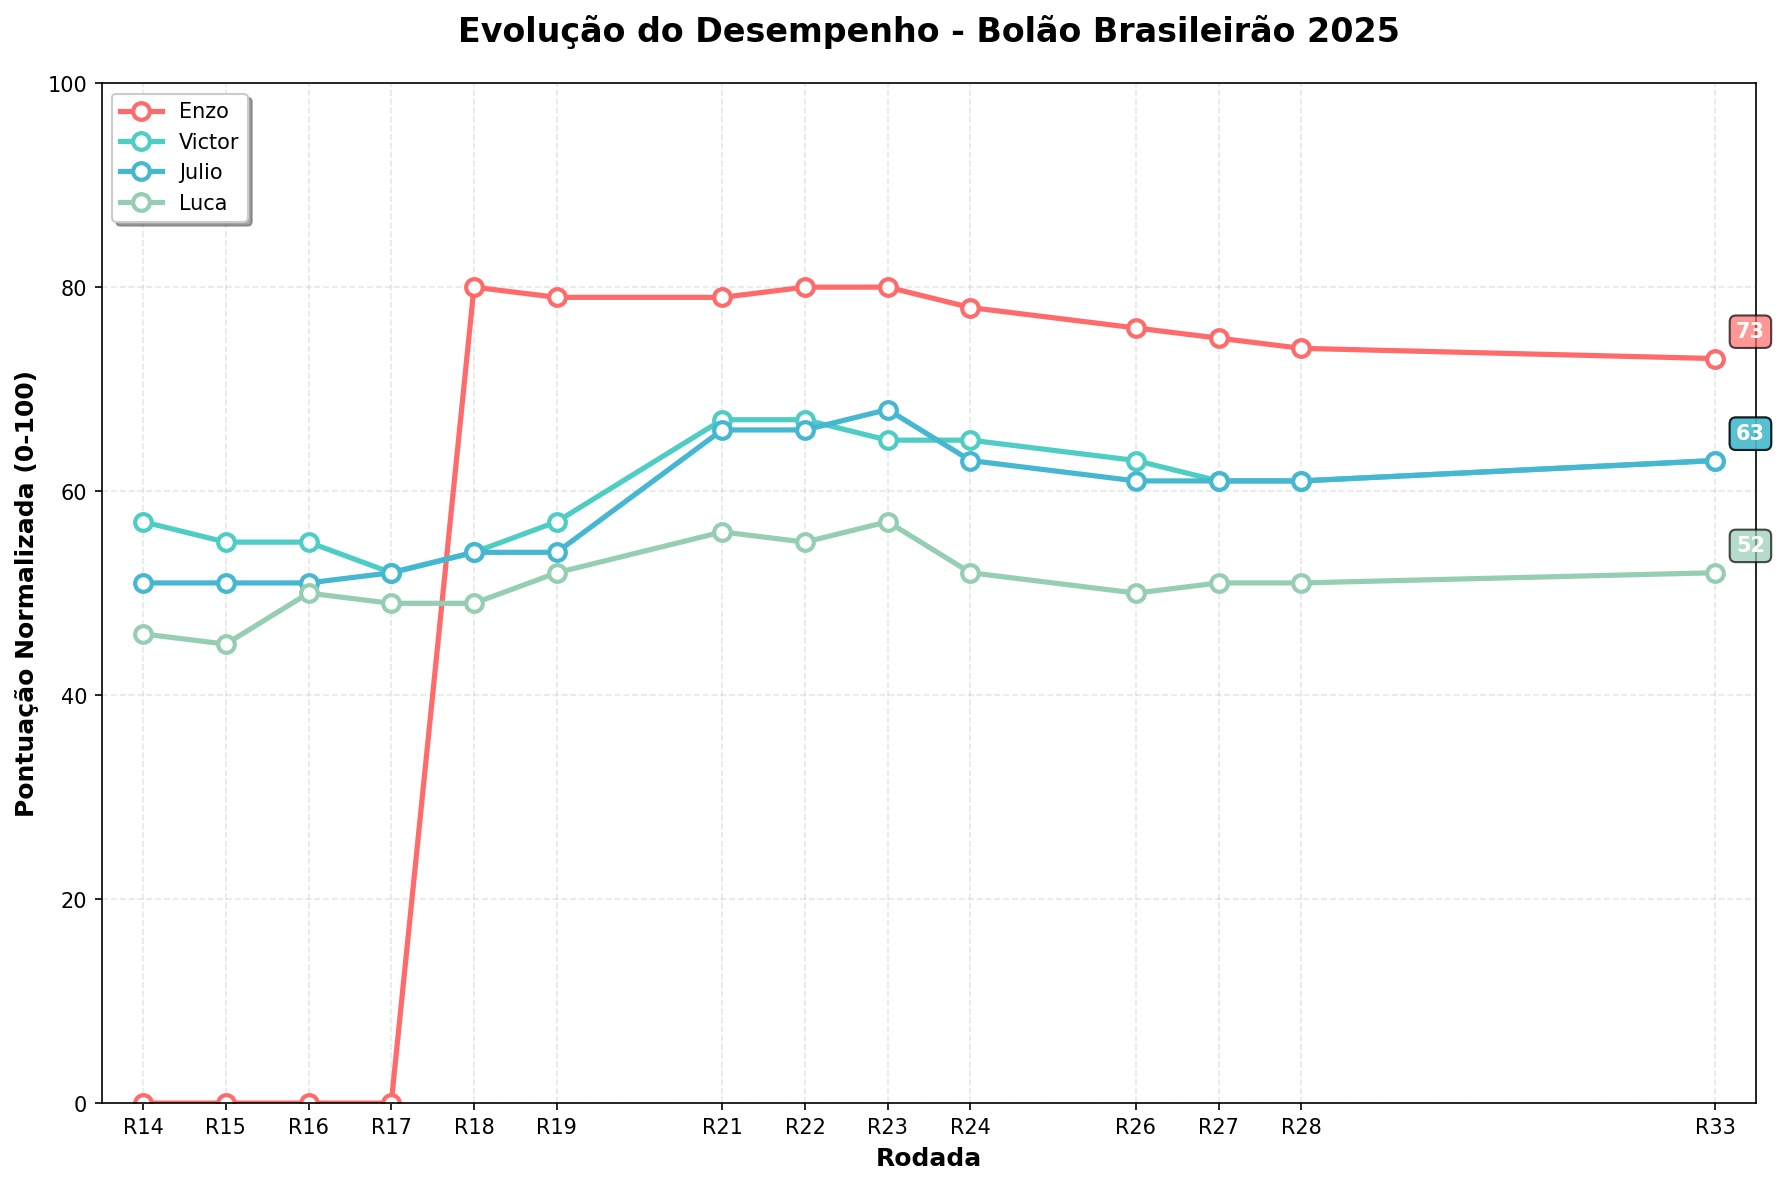
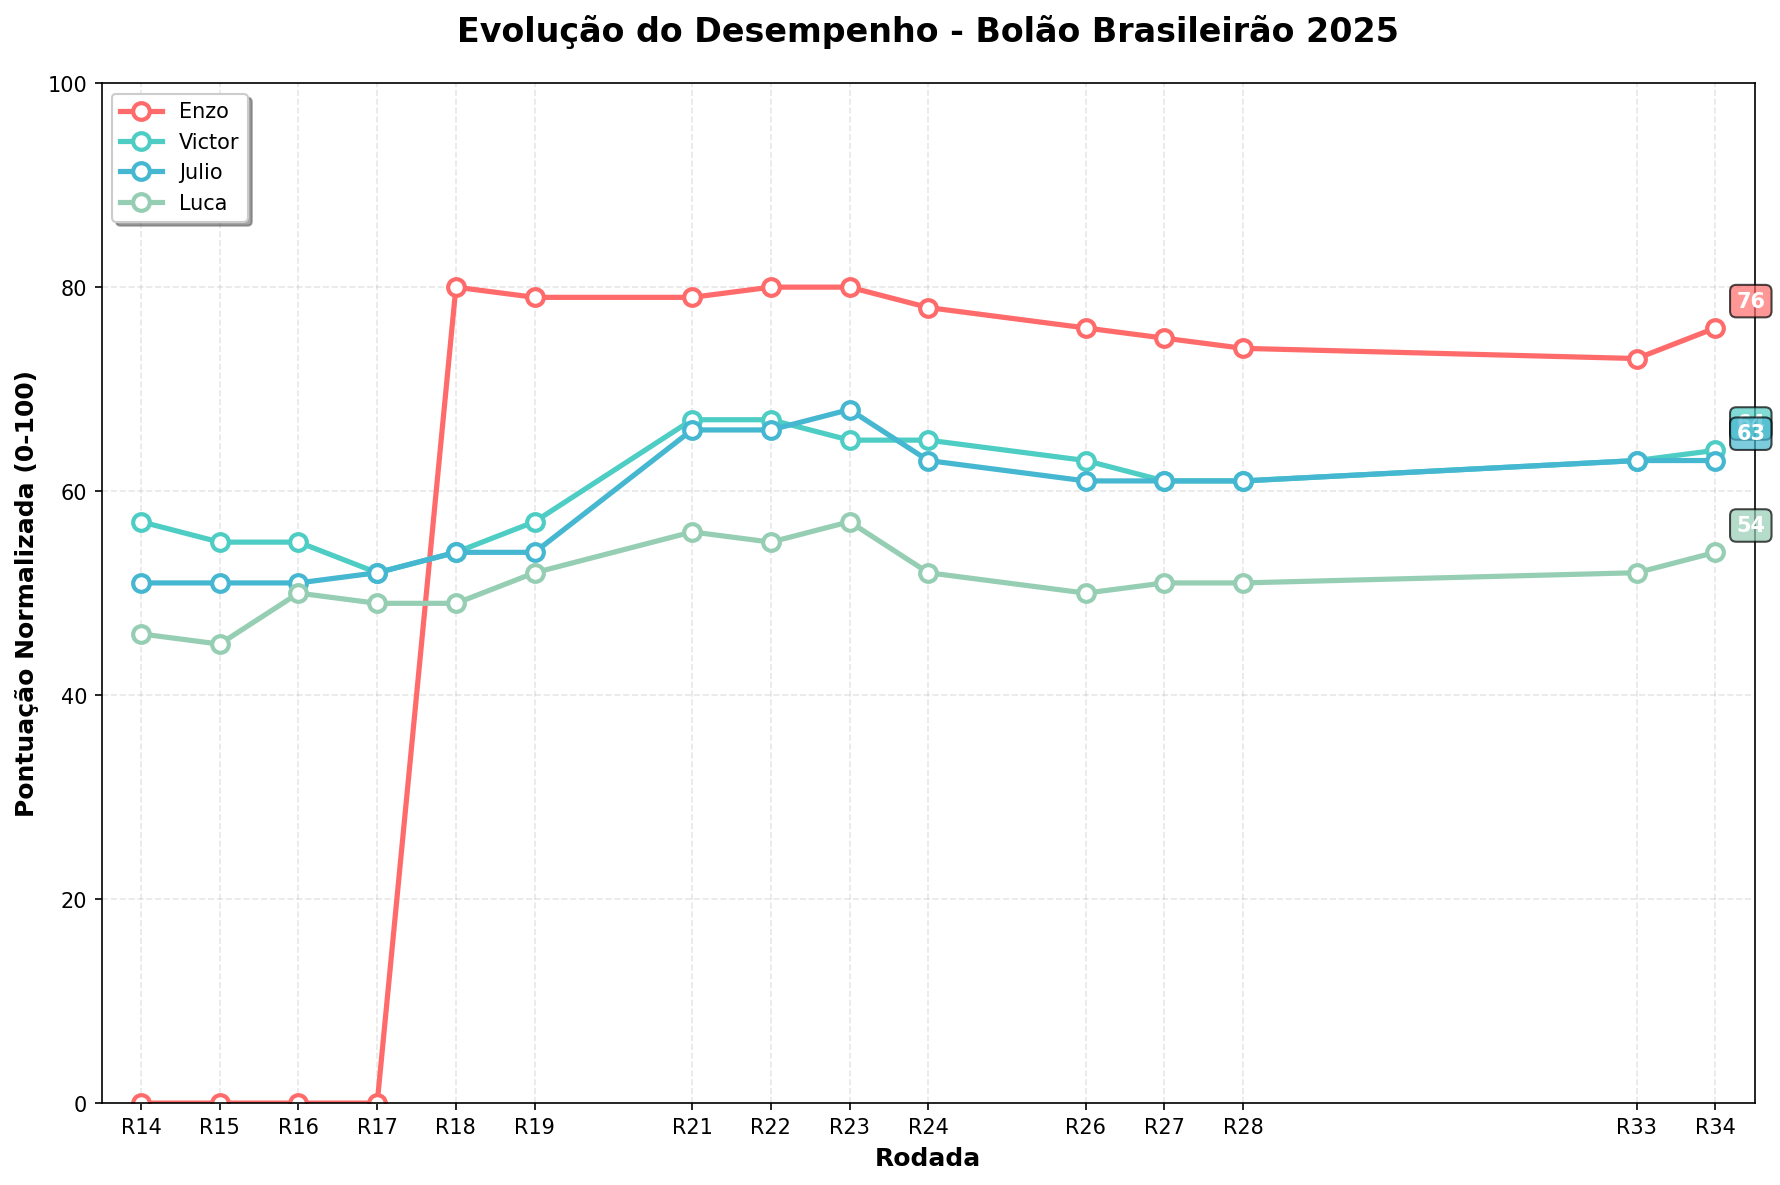
Atualizacao automatica - 19/11/2025 18:39:53,74

diff --git a/README.md b/README.md
@@ -2,38 +2,38 @@
 
 ## 🏆 Resultados Atuais
 
-**Última Atualização:** 2025-11-13 17:37:38
+**Última Atualização:** 2025-11-19 18:39:53
 
 | Time | Real | Enzo | Victor | Julio | Luca |
 |------|------|------|------|------|------|
-| Palmeiras | 1 | 3°(18p) | 5°(16p) | 4°(17p) | 2°(19p) |
-| Flamengo | 2 | 2°(20p) | 2°(20p) | 1°(19p) | 1°(19p) |
+| Flamengo | 1 | 2°(19p) | 2°(19p) | 1°(20p) | 1°(20p) |
+| Palmeiras | 2 | 3°(19p) | 5°(17p) | 4°(18p) | 2°(20p) |
 | Cruzeiro | 3 | 1°(18p) | 14°(9p) | 5°(18p) | 11°(12p) |
 | Mirassol | 4 | 4°(20p) | 8°(16p) | 18°(6p) | 12°(12p) |
-| Bahia | 5 | 8°(17p) | 4°(19p) | 6°(19p) | 7°(18p) |
-| Botafogo | 6 | 7°(19p) | 3°(17p) | 7°(19p) | 5°(19p) |
+| Botafogo | 5 | 7°(18p) | 3°(18p) | 7°(18p) | 5°(20p) |
+| Bahia | 6 | 8°(18p) | 4°(18p) | 6°(20p) | 7°(19p) |
 | Fluminense | 7 | 9°(18p) | 6°(19p) | 10°(17p) | 13°(14p) |
-| São Paulo | 8 | 14°(14p) | 9°(19p) | 8°(20p) | 9°(19p) |
-| Atlético-MG | 9 | 12°(17p) | 10°(19p) | 9°(20p) | 8°(19p) |
-| Vasco da Gama | 10 | 16°(14p) | 16°(14p) | 14°(16p) | 17°(13p) |
-| Red Bull Bragantino | 11 | 6°(15p) | 17°(14p) | 16°(15p) | 15°(16p) |
+| Red Bull Bragantino | 8 | 6°(18p) | 17°(11p) | 16°(12p) | 15°(13p) |
+| São Paulo | 9 | 14°(15p) | 9°(20p) | 8°(19p) | 9°(20p) |
+| Atlético-MG | 10 | 12°(18p) | 10°(20p) | 9°(19p) | 8°(18p) |
+| Vasco da Gama | 11 | 16°(15p) | 16°(15p) | 14°(17p) | 17°(14p) |
 | Ceará | 12 | 13°(19p) | 13°(19p) | 11°(19p) | 18°(14p) |
 | Corinthians | 13 | 11°(18p) | 7°(14p) | 3°(10p) | 6°(13p) |
 | Grêmio | 14 | 10°(16p) | 11°(17p) | 15°(19p) | 14°(20p) |
 | Internacional | 15 | 5°(10p) | 1°(6p) | 2°(7p) | 3°(8p) |
-| Vitória | 16 | 19°(17p) | 18°(18p) | 19°(17p) | 20°(16p) |
-| Santos | 17 | 17°(20p) | 12°(15p) | 13°(16p) | 4°(7p) |
+| Santos | 16 | 17°(19p) | 12°(16p) | 13°(17p) | 4°(8p) |
+| Vitória | 17 | 19°(18p) | 18°(19p) | 19°(18p) | 20°(17p) |
 | Juventude | 18 | 18°(20p) | 15°(17p) | 12°(14p) | 19°(19p) |
 | Fortaleza | 19 | 15°(16p) | 20°(19p) | 17°(18p) | 10°(11p) |
 | Sport | 20 | 20°(20p) | 19°(19p) | 20°(20p) | 16°(16p) |
-| **TOTAL** | | **346** | **326** | **326** | **304** |
+| **TOTAL** | | **352** | **328** | **326** | **308** |
 
 ### 🏅 Classificação Final (pontuação normalizada 0-100)
 
-🥇 **Enzo**: 73 pontos
-🥈 **Victor**: 63 pontos
+🥇 **Enzo**: 76 pontos
+🥈 **Victor**: 64 pontos
 🥉 **Julio**: 63 pontos
-4. **Luca**: 52 pontos
+4. **Luca**: 54 pontos
 
 ### 📈 Histórico de Desempenho
 
@@ -41,7 +41,6 @@
 
 | Rodada | Enzo | Victor | Julio | Luca |
 |-------|-------|-------|-------|-------|
-| R18 | 80 | 54 | 54 | 49 |
 | R19 | 79 | 57 | 54 | 52 |
 | R21 | 79 | 67 | 66 | 56 |
 | R22 | 80 | 67 | 66 | 55 |
@@ -51,12 +50,13 @@
 | R27 | 75 | 61 | 61 | 51 |
 | R28 | 74 | 61 | 61 | 51 |
 | R33 | 73 | 63 | 63 | 52 |
+| R34 | 76 | 64 | 63 | 54 |
 
 **Tendência (últimas 2 medições):**
-- **Enzo**: 📉 -1
-- **Victor**: 📈 +2
-- **Julio**: 📈 +2
-- **Luca**: 📈 +1
+- **Enzo**: 📈 +3
+- **Victor**: 📈 +1
+- **Julio**: ➡ =0
+- **Luca**: 📈 +2
 
 ## 📖 Sobre o Projeto
 
